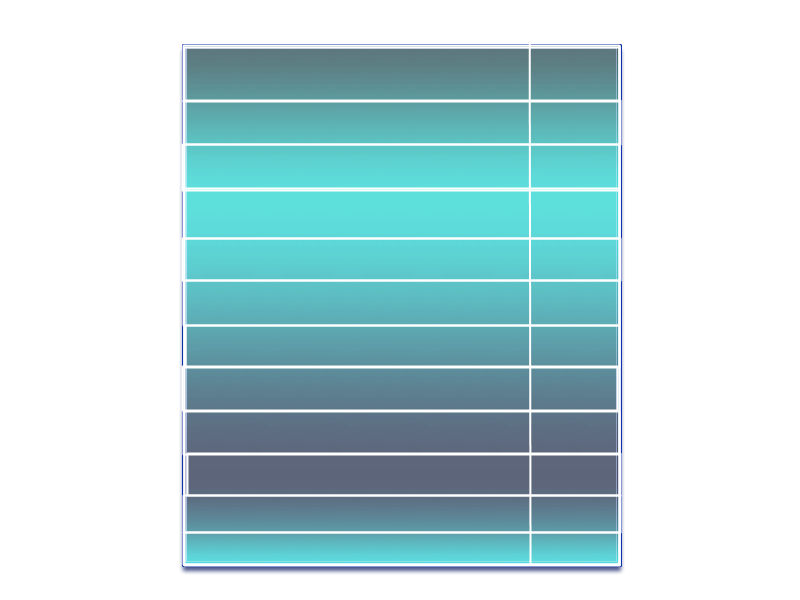
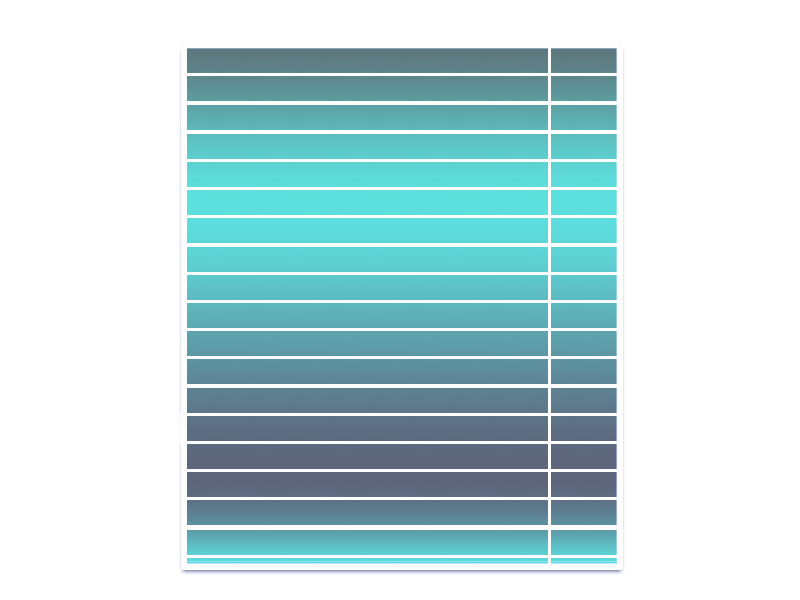
Feito a logica do ranking para ordenar e ranking novo

Changed region(s): [[0.2188, 0.06, 0.7812, 0.96]]

diff --git a/js/telas/ranking.js b/js/telas/ranking.js
@@ -1,17 +1,15 @@
-class Ranking{
-    constructor(){
-        if(localStorage.getItem("ranking")==null)
-        {
-            this.lista = Array();   
+class Ranking {
+    constructor() {
+        if (localStorage.getItem("ranking") == null) {
+            this.lista = Array();
         }
-        else
-        {
+        else {
             let rankingDoStorage = localStorage.getItem("ranking");
             this.lista = JSON.parse(rankingDoStorage);
         }
     }
 
-    preload(){
+    preload() {
         this.load.image('fundo', 'assets/fases/background.png');
         this.load.image('bordas', 'assets/fases/bordas.png')
         this.load.image('tabela', 'assets/fases/rankingtable.png')
@@ -27,7 +25,7 @@ class Ranking{
         })
     }
 
-    create(){
+    create() {
 
         this.game.add.sprite(0, 0, 'fundo');
         this.estrelas = game.add.group();   ///faz as estrelas colledirem
@@ -40,20 +38,44 @@ class Ranking{
 
         const exitBtn = game.add.button(game.world.centerX - 400, 540, 'botão', this.exit);
 
-   
-        this.contagem = game.add.text(400, 300, "", { fontSize: '25px', fill: 'white'});
-        for(let i=0;i<this.lista.length;i++)
-        {
-            this.contagem.text +=this.lista[i].nome + " -  " + this.lista[i].pontos + "\n";
+        this.msg1 = game.add.text(190, 49, "Jogadores", { fontSize: '21px', fill: 'blue', });
+        this.msg2 = game.add.text(560, 49, "Pts", { fontSize: '21px', fill: 'blue', });
+
+        this.nome = game.add.text(190, 75, "", { fontSize: '21px', fill: 'black', });
+        this.pts = game.add.text(560, 75, "", { fontSize: '21px', fill: 'black', });
+
+    
+
+        // for (let i = 0; i < this.lista.length; i++) {
+        //     for(let i2 = 0; i2 < this.lista.length; i2++){
+        //         if(this.lista[i].pontos < this.lista[i2].pontos){
+        //             this.lista[i].nome = this.lista[i2].nome;
+        //             this.lista[i].pontos = this.lista[i2].pontos;
+        //             i++;
+        //         }
+        //     }
+        // this.nome.text += this.lista[i].nome + "\n";
+        // this.pts.text += this.lista[i].pontos + "\n";
+        // }
+
+        this.lista.sort(this.ordenar);
+
+        for (let i = 0; i < this.lista.length; i++) {
+            this.nome.text += this.lista[i].nome + "\n";
+            this.pts.text += this.lista[i].pontos + "\n";
         }
+
+        // this.nome.text += this.lista[i].nome + "\n";
+        // this.pts.text += this.lista[i].pontos + "\n";
         
-       
+
+        
 
 
     }
 
-    update(){
-        
+    update() {
+
     }
 
 
@@ -64,9 +86,25 @@ class Ranking{
         game.state.start('Menu')
     }
 
-<<<<<<< HEAD
-    gravar(nome, pontos)
-    {
+    carregarEstrelas() {
+        for (let i = 0; i < 1; i++) {
+            let e = this.estrelas.create(Math.random() * 700, Math.random() * 100 * -8, 'estrela');
+            e.body.gravity.y = Math.random() * (100 - 60) + 60;
+            e.body.collideWorldBounds = true;
+            e.body.velocity.x = Math.random() * (200 - (-200)) + (-200);
+            e.body.bounce.setTo(1, 1);
+    
+        }
+    }
+
+    ordenar (a, b) {
+    if (a.pontos > b.pontos)
+        return -1;
+    if (a.pontos < b.pontos)
+        return 1;
+    return 0;
+}
+    gravar(nome, pontos) {
         //Monta a pontuação
         let p = new Pontuacao();
         p.nome = nome;
@@ -78,23 +116,13 @@ class Ranking{
         localStorage.setItem("ranking", rankingDoStorage);
     }
 }
-class Pontuacao
-{
-    constructor()
-    {
+
+class Pontuacao {
+    constructor() {
         this.pontos = 0;
         this.nome = null;
-=======
 
-    carregarEstrelas() {
-        for (let i = 0; i < 1; i++) {
-            let e = this.estrelas.create(Math.random() * 700, Math.random() * 100 * -8, 'estrela');
-            e.body.gravity.y = Math.random() * (100 - 60) + 60;
-            e.body.collideWorldBounds = true;
-            e.body.velocity.x = Math.random() * (200 - (-200)) + (-200);
-            e.body.bounce.setTo(1, 1);
 
         }
->>>>>>> 333713d38b4cc639259f4a52398f0adb857f7648
     }
-}
+ 

diff --git a/index.html b/index.html
@@ -24,9 +24,5 @@
     <title></title>
   </head>
   <body>
-
-    <script>
-              alert("Sons e efeitos sonoros funcionam corretamente no Firefox!");
-</script>
   </body>
 </html>
